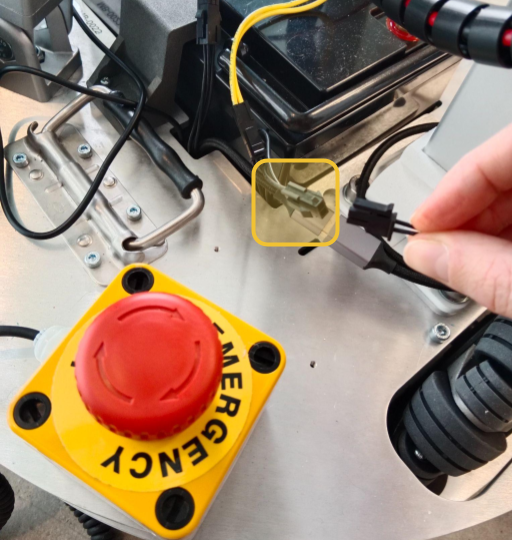
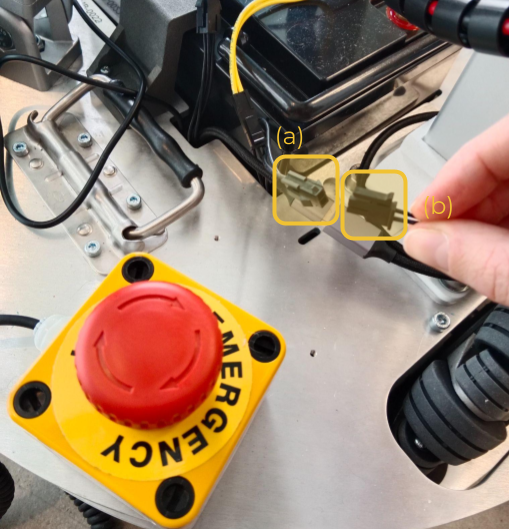
Update unpacking.

diff --git a/content/docs/getting-started/unpack.md b/content/docs/getting-started/unpack.md
@@ -9,23 +9,18 @@ images: []
 toc: true
 ---
 
-## Your robot is already assembled!
+## Your robot is nearly already assembled!
 
-Simply unpack your robot, everything is already assembled and plugged.
+{{< alert icon="👉" text="The robot weigh is around 50kg (110lb). You will need to be at least 3 to carry the robot out of the box." >}}
 
-### Screw the robot antennas
-
-### Plug the WiFi antennas
-
-Plug the antennas on the robot computer. Make sure to place them correctly so that the robot's arms cannot touch them:
-
-{{< img-center "images/docs/getting-started/wifi-antennas.png" 400x "Wifi antennas" >}}
-
-### Plug the emergency stop button
-
-To plug the emergency state button, you will find a little black connector on the mobile base. Simply connect the button cable to it.
-
-{{< img-center "images/docs/getting-started/bau-connection.png" 300x "Connect the emergency stop button" >}}
+Unpack your robot, you just have a few things to plug to finish assembling it.  
+Check your box contains, in addition to the robot, the following elements:
+- a battery charger
+- a calibration board
+- wifi antennas
+- a mini USB cable
+- an emergency stop button
+- robot antennas screws
 
 ## Adjust robot size
 
@@ -33,8 +28,40 @@ Reachy 2 is mounted on its mobile base with a tripod for stability.
 
 This tripod is **adjustable in height**: choose a suitable height before starting using the robot.  
 
-{{< alert icon="👉" text="Be careful, Reachy 2 is quite heavy. Ask for help to adjust robot size." >}}
+{{< alert icon="👉" text="Be careful, Reachy 2 is heavy. Ask for help to adjust robot size." >}}
 
 To do so, maintain the mobile base and ask for someone to maintain the robot's torso. Then unscrew all pods (do not unscrew them too much!), and raise the robot's torso.
 
 > The button on the cranks are here to modify their positions without unscrewing them.
+
+## Assemble the last elements
+
+### Screw the robot antennas
+
+Stick the antennas in the support on the head, then use the provided screws to fix them, preferably from the back hole. There is one screw by antenna.   
+
+{{< img-center "images/docs/getting-started/antennas.jpg" 400x "Antennas support" >}}
+
+
+### Plug the WiFi antennas
+
+Plug the wifi antennas on the robot computer, on port 1 and 3. 
+
+{{< img-center "images/docs/getting-started/plug-antennas.jpg" 300x "Wifi antennas emplacement" >}}
+
+Make sure to place them correctly so that the robot's arms cannot touch them:
+
+{{< img-center "images/docs/getting-started/wifi-antennas.png" 400x "Wifi antennas position" >}}
+
+### Plug the emergency stop button
+
+To plug the emergency state button, you will find a little black connector on the mobile base. Simply connect the button cable to it.
+
+{{< img-center "images/docs/getting-started/bau-connection.png" 300x "Connect the emergency stop button" >}}
+
+### Connect the battery
+
+First make sure the emergency stop button is pressed.  
+Then plug the yellow connector of the mobile base so the robot will be powered when the emergency stop button will be unpressed.  
+
+{{< img-center "images/docs/getting-started/yellow-connector.png" 300x "Power your robot" >}}
